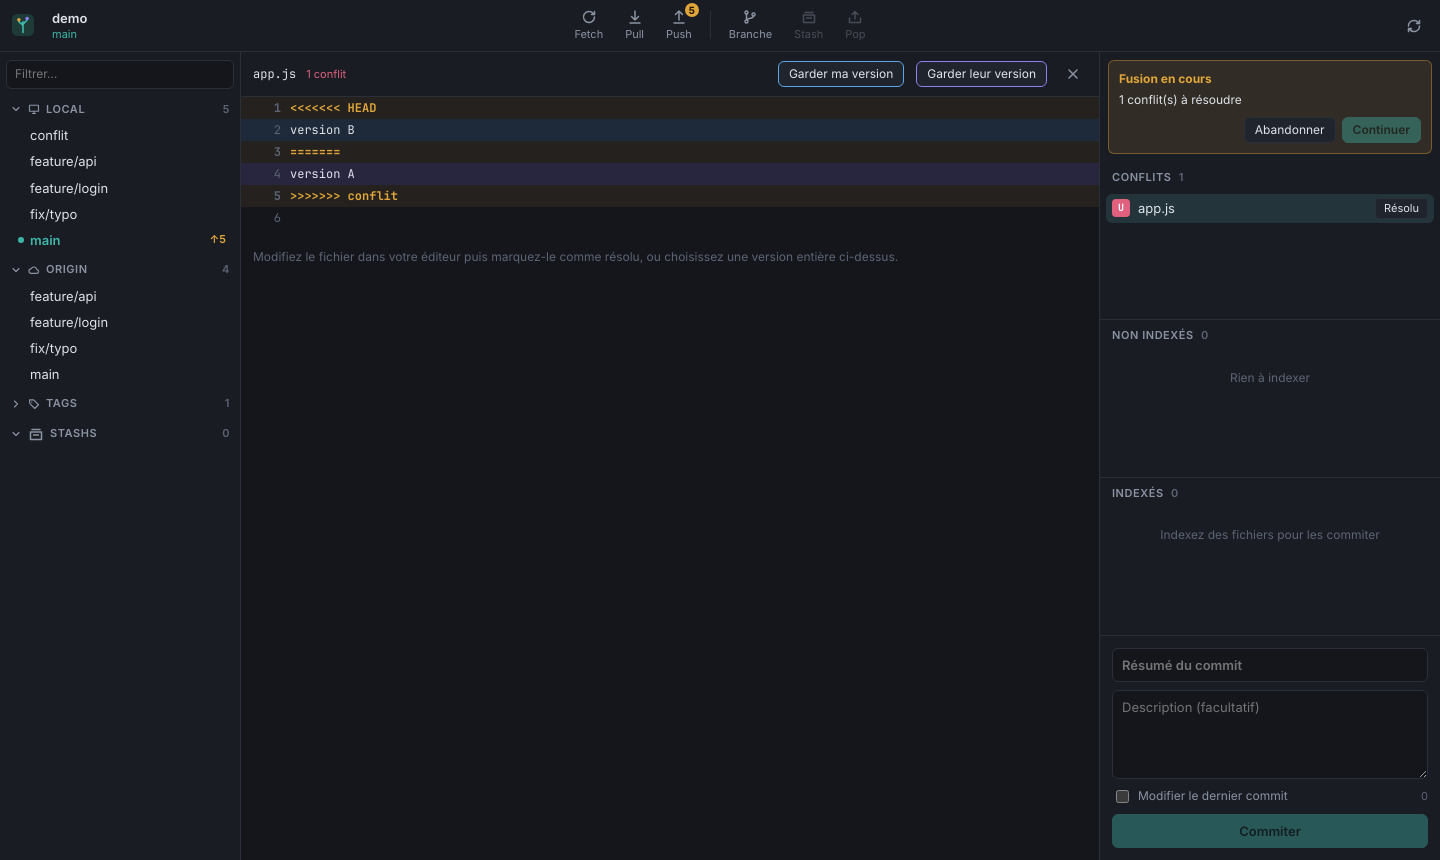
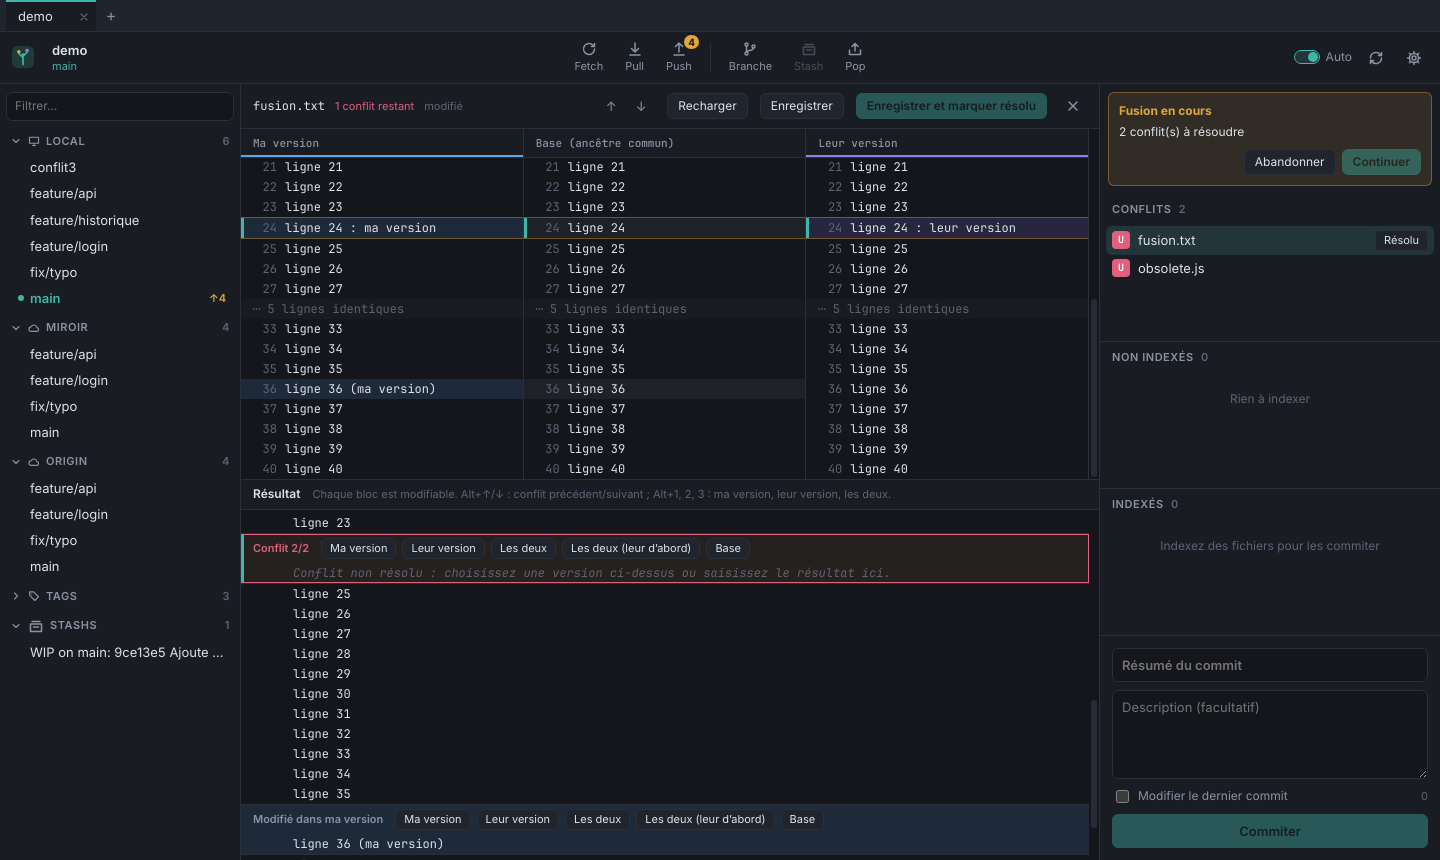
Éditeur de fusion : défilement stable, README et capture
Le calcul de hauteur des segments ne ramène plus le panneau du résultat vers le haut
(ancrage de défilement désactivé, position rétablie après mesure) ; README et
docs/conflits.png mis à jour.

Claude-Session: https://claude.ai/code/session_01VeckaVQku5Wv93Tepj83J3

diff --git a/src/renderer/components/MergeEditor.tsx b/src/renderer/components/MergeEditor.tsx
@@ -268,7 +268,7 @@ export function MergeEditor({ repo, path, onClose, fallback }: { repo: string; p
   keys.current = { requestClose, goConflict, choose, current, conflicts, model };
   useEffect(() => {
     let overlayOpen = false;
-    const onCapture = (e: KeyboardEvent) => {
+    const onCapture = () => {
       overlayOpen = !!document.querySelector('[data-overlay]');
     };
     const onKey = (e: KeyboardEvent) => {
@@ -474,8 +474,12 @@ function SegmentText({ value, width, placeholder, onFocus, onChange }: { value: 
   useLayoutEffect(() => {
     const el = ref.current;
     if (!el) return;
+    // La mesure passe par une hauteur nulle : le défilement du panneau est rétabli (sinon il serait ramené plus haut).
+    const pane = el.closest('.mg-bottom');
+    const scroll = pane?.scrollTop ?? 0;
     el.style.height = '0';
     el.style.height = `${el.scrollHeight}px`;
+    if (pane) pane.scrollTop = scroll;
   }, [value, width]);
   return (
     <textarea

diff --git a/src/renderer/styles.css b/src/renderer/styles.css
@@ -1954,6 +1954,7 @@ tr.cf-marker {
   flex: 1 1 50%;
   min-height: 0;
   overflow: auto;
+  overflow-anchor: none; /* défilement piloté par la synchronisation */
 }
 .mg-grid {
   display: grid;

diff --git a/README.md b/README.md
@@ -29,6 +29,7 @@ npm test               # tests unitaires
 - **Rafraîchissement automatique** : l'interface suit les changements faits hors d'Arbor (terminal, éditeur), fichiers ignorés exclus, sans boucle ; interrupteur « Auto » dans la barre d'outils.
 - **Fusion et rebase** depuis le menu contextuel d'une branche, avec bandeau Continuer/Abandonner.
 - **Conflits** : vue dédiée qui met en évidence les deux versions, « garder ma version » / « garder leur version ».
+- **Éditeur de fusion à trois panneaux** : ma version, base et leur version alignées bloc par bloc, résultat modifiable en bas (un segment par bloc), changements sans conflit appliqués d'office, choix par conflit (ma version, leur version, les deux, base), Alt+↑/↓ et Alt+1/2/3, défilement synchronisé, brouillon gardé d'un onglet à l'autre ; « ma version » reste la vôtre pendant un rebase ; fins de ligne CRLF et saut final conservés ; enregistrement refusé si le fichier a changé ailleurs ; conflits suppression/modification (garder ou supprimer le fichier). Repli sur la vue simple pour les fichiers binaires, de plus de 1 Mo ou 20 000 lignes, les sous-modules et les liens symboliques.
 - **Stash** : mettre de côté, appliquer, pop, supprimer.
 - **Commits** : cherry-pick, revert, reset soft/mixed/hard, tag, branche depuis un commit, copie du SHA.
 - **Historique d'un fichier et blame** : clic droit sur un fichier, liste des commits qui l'ont modifié (renommages suivis) avec le diff de chaque version, blame ligne par ligne (lignes non commitées comprises) qui renvoie vers les commits.
@@ -51,6 +52,6 @@ Le rendu n'a aucun accès direct au système : toutes les commandes passent par 
 ## Feuille de route
 
 1. Onglets : conserver aussi l'état propre aux composants (défilement du graphe, recherche, panneaux repliés), aujourd'hui remis à zéro à chaque activation.
-2. Rebase interactif (glisser-déposer), éditeur de fusion à trois panneaux, gestion des remotes et des tags, annulation via le reflog.
+2. Rebase interactif (glisser-déposer), gestion des remotes et des tags, annulation via le reflog.
 3. Authentification GitHub/GitLab, pull requests, identifiants SSH/HTTPS.
 4. Performances sur gros dépôts, tests de bout en bout en CI, paquets d'installation (electron-builder).
